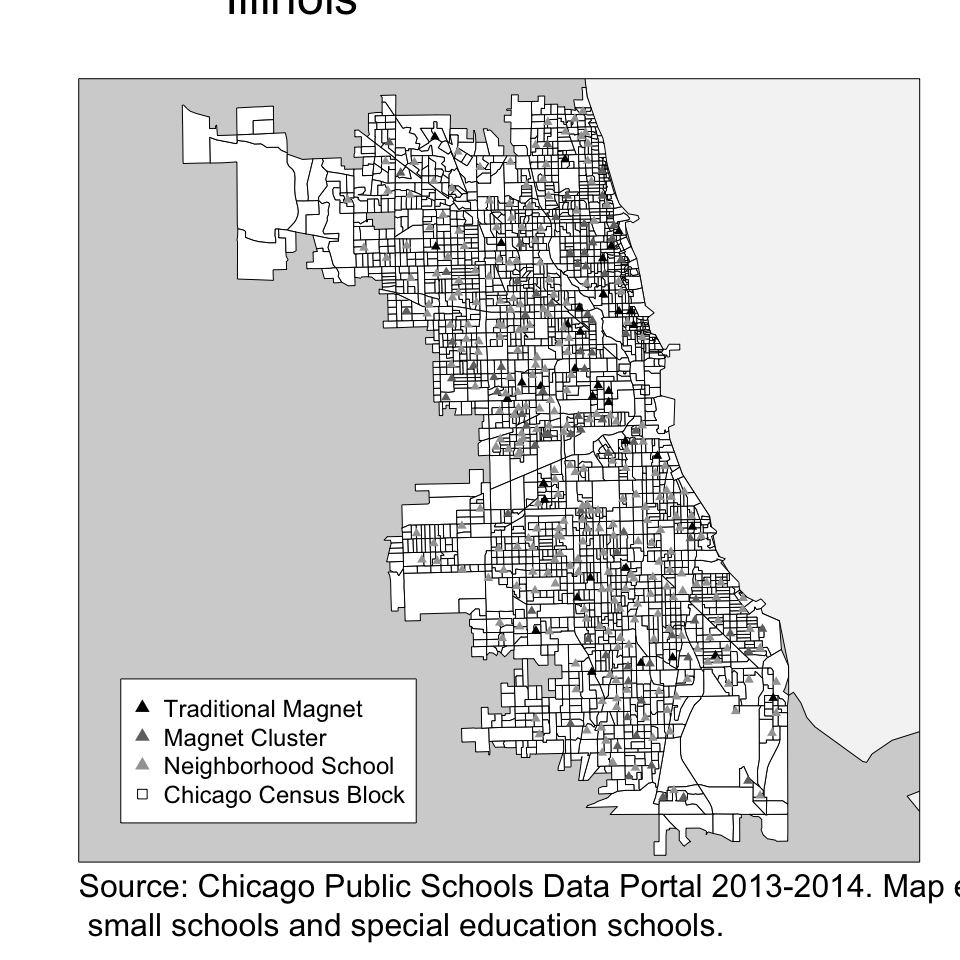
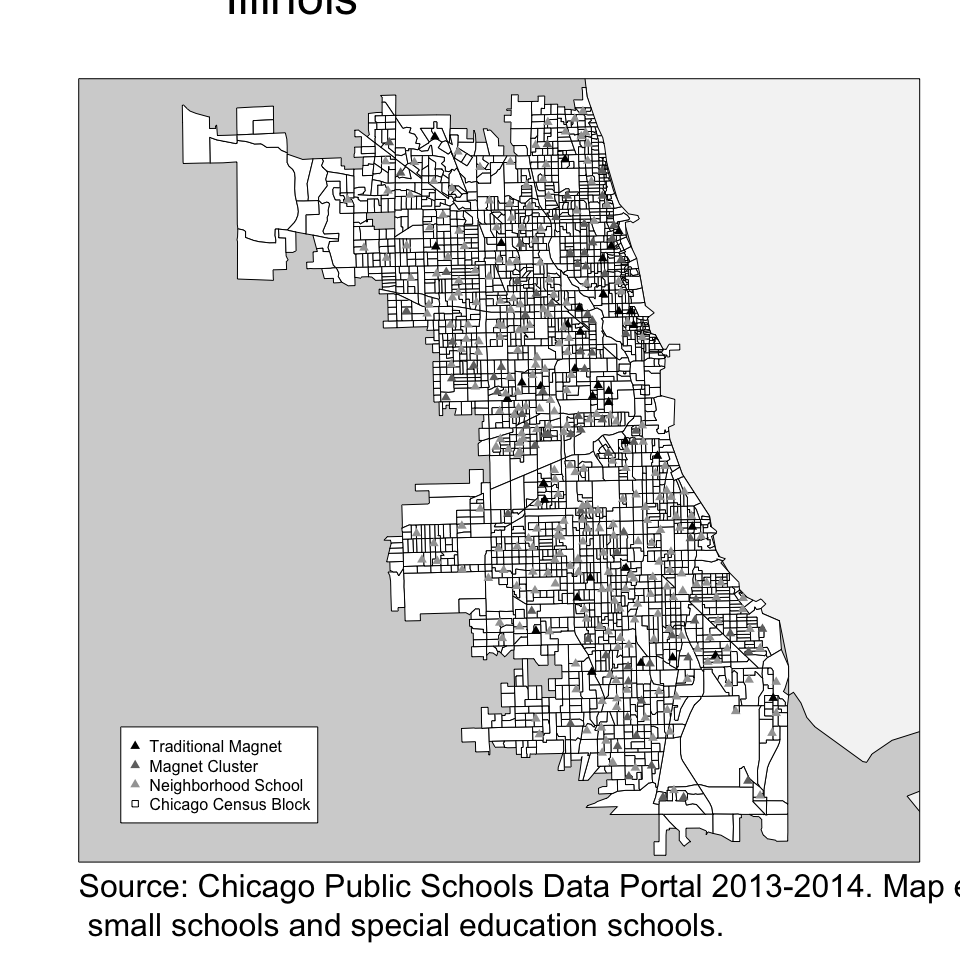
analysis cleanup

Changed region(s): [[0.125, 0.6875, 0.4375, 0.875]]

diff --git a/Magnet_Analysis.md b/Magnet_Analysis.md
@@ -197,7 +197,7 @@ openenroll.shp<-schools.shp[schools.shp$Type2=="Open Enrollment", ]
 plot(magnets.shp, pch = 17, add=T, col="black",cex=1)
 plot(clusters.shp, pch = 17, add=T, col="gray44",cex=1)
 plot(openenroll.shp, pch = 17, add=T, col="grey64",cex=1)
-legend("bottomleft", inset=.05, pch = c(17,17,17,22), c("Traditional Magnet","Magnet Cluster","Neighborhood School", "Chicago Census Block"), col=c("black","gray44","gray64","black"), horiz=FALSE, cex=1.5)   
+legend("bottomleft", inset=.05, pch = c(17,17,17,22), c("Traditional Magnet","Magnet Cluster","Neighborhood School", "Chicago Census Block"), col=c("black","gray44","gray64","black"), horiz=FALSE, cex=1)   
 mtext("Lake Michigan             ",side=1,line=-75,adj=1,cex=2.5,col="darkblue")
 mtext("Source: Chicago Public Schools Data Portal 2013-2014. Map excludes elementary charters, magnets that require admissions tests, \n small schools and special education schools.",side=1,line=3,adj=0,cex=2,col="black")
 mtext("           Illinois",side=1,line=-45,adj=0,cex=3,col="black")
